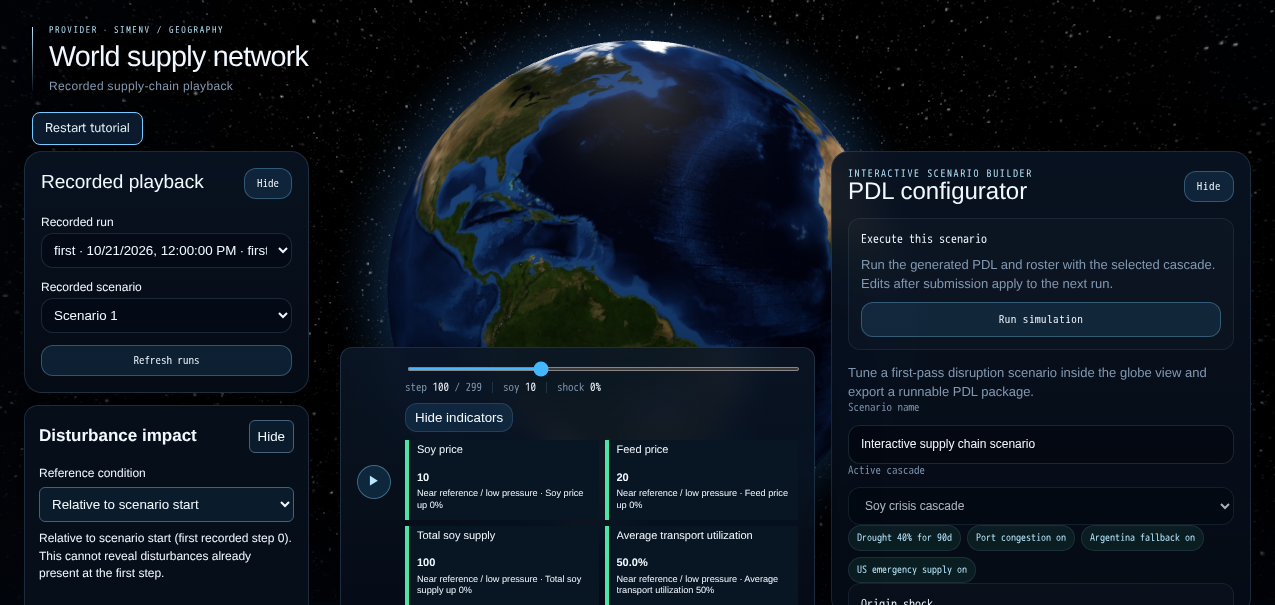
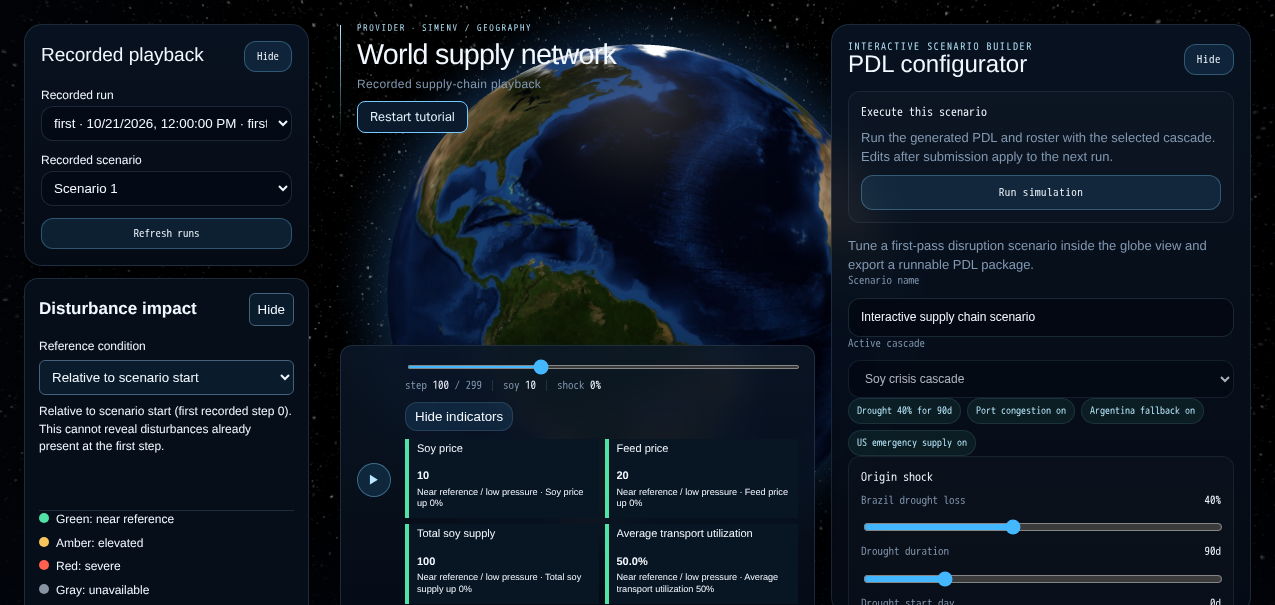
fix: align playback side panels to the top gutter

diff --git a/web/src/app.css b/web/src/app.css
@@ -25,9 +25,9 @@ body {
   overflow-anchor: none;
   display: grid;
   grid-template-columns: 300px minmax(360px, 1fr) 420px;
-  grid-template-rows: minmax(180px, 1fr) auto auto;
+  grid-template-rows: auto minmax(180px, 1fr) auto auto;
   gap: 16px;
-  padding: 155px 24px 12px;
+  padding: 24px 24px 12px;
   position: fixed;
   inset: 0;
   overflow: auto;
@@ -57,13 +57,14 @@ body {
 }
 
 .sim-frame-heading {
-  position: absolute;
-  top: 30px;
-  left: 32px;
+  position: relative;
+  grid-column: 2;
+  grid-row: 1;
   z-index: 4;
-  max-width: min(410px, calc(100vw - 64px));
+  min-width: 0;
+  overflow-wrap: anywhere;
   padding-left: 17px;
-  pointer-events: none;
+  pointer-events: auto;
 }
 
 .sim-frame-heading::before {
@@ -105,7 +106,7 @@ body {
 
 .sim-frame-meta {
   grid-column: 1 / -1;
-  grid-row: 3;
+  grid-row: 4;
   position: relative;
   min-width: 0;
   overflow-wrap: anywhere;
@@ -165,9 +166,6 @@ body {
 
 @media (max-width: 600px) {
   .sim-frame-heading {
-    top: 18px;
-    left: 18px;
-    max-width: calc(100vw - 36px);
     padding-left: 13px;
   }
 
@@ -214,7 +212,7 @@ body {
 /* Recorded playback controls remain available with an empty database. */
 .sim-playback-sidebar {
   overflow-anchor: none;
-  grid-column: 1; grid-row: 1 / 3; position: relative; z-index: 10;
+  grid-column: 1; grid-row: 1 / 4; position: relative; z-index: 10;
   width: 300px; min-height: 0; overflow-y: auto;
   display: grid; align-content: start; gap: 12px; scrollbar-gutter: stable;
 }
@@ -245,13 +243,13 @@ body {
 .sim-run-selector button:disabled { opacity: 0.55; cursor: not-allowed; }
 /* Keep playback status beside the selector, including on short desktop windows. */
 .sim-playback-message { z-index: 11; max-width: 300px; color: #eee; background: #091624e8; padding: 12px; }
-.sim-playback-notice { grid-column: 2; grid-row: 1; align-self: start; z-index: 11; max-width: 300px; pointer-events: none; }
+.sim-playback-notice { grid-column: 2; grid-row: 2; align-self: start; z-index: 11; max-width: 300px; pointer-events: none; }
 .sim-playback-notice > * { pointer-events: auto; }
 .sim-playback-notice .sim-playback-message { position: static; margin: 0; }
 
-/* Both sidebars span the globe and timeline rows, with independent scrolling. */
+/* Both sidebars span the header, globe and timeline, scrolling independently. */
 .sim-app .sim-configurator {
-  position: relative; inset: auto; grid-column: 3; grid-row: 1 / 3;
+  position: relative; inset: auto; grid-column: 3; grid-row: 1 / 4;
   width: 100%; min-height: 0; max-height: none;
 }
 
@@ -259,7 +257,7 @@ body {
   /* A scrollable control flow prevents messages from covering submission controls. */
   .sim-app { display: block; overflow-y: auto; padding: 0 0 20px; }
   .sim-app .sim-globe-stage { position: fixed; }
-  .sim-app .sim-frame-heading { position: relative; inset: auto; margin: 18px 14px 64px; }
+  .sim-app .sim-frame-heading { margin: 18px 14px; }
   .sim-app .sim-playback-sidebar,
   .sim-app .sim-playback-message,
   .sim-app .sim-playback-notice,

diff --git a/web/src/App.tsx b/web/src/App.tsx
@@ -100,9 +100,9 @@ export default function App({ source }: { source: PlaybackSource }) {
     return () => controller.abort()
   }, [source, refresh, offset])
 
-  return <Tutorial mode={source.mode} layoutReady={initialLayoutReady || (!loading && !selected)}><main className="sim-app" style={designVars as CSSProperties}>
+  return <Tutorial mode={source.mode} layoutReady={initialLayoutReady || (!loading && !selected)}>{restartNode => <main className="sim-app" style={designVars as CSSProperties}>
     <header className="sim-frame-heading"><p className="sim-frame-eyebrow">PROVIDER · SIMENV / GEOGRAPHY</p>
-      <h1>World supply network</h1><p className="sim-frame-subtitle">Recorded supply-chain playback</p></header>
+      <h1>World supply network</h1><p className="sim-frame-subtitle">Recorded supply-chain playback</p>{restartNode}</header>
     <div className="sim-playback-sidebar">
       <RunSelector runs={runs} selected={selected} scenario={scenario} loading={loading} error={error}
       hasMore={nextOffset < total} onRefresh={refreshRuns} onMore={() => setOffset(nextOffset)}
@@ -117,9 +117,9 @@ export default function App({ source }: { source: PlaybackSource }) {
     </div>
     {selected ? <SelectedPlayback key={`${selected}:${scenario}`} source={source} run={selected} scenario={scenario} runs={runs} impactSlot={impactSlot} onLayoutReady={reportLayoutReady}
       indicatorsPreference={indicatorsPreference} onIndicatorsPreference={setIndicatorsPreference} />
-      : <div className="sim-playback-message">Select a completed run for playback.</div>}
+      : <div className="sim-playback-notice"><div className="sim-playback-message">Select a completed run for playback.</div></div>}
     <ScenarioConfigurator meta={{ pdl: 's1-soja.pdl.yaml', scenario: '', ticks: 0, generatedAt: '', honestyNote: '' }} onCompleted={refreshRuns} onViewResults={viewResults} />
-  </main></Tutorial>
+  </main>}</Tutorial>
 }
 
 function SelectedPlayback({ source, run, scenario, runs, impactSlot, onLayoutReady, indicatorsPreference, onIndicatorsPreference }: { source: PlaybackSource; run: string; scenario: number; runs: RunSummary[]; impactSlot: HTMLElement | null; onLayoutReady: () => void; indicatorsPreference: boolean | null; onIndicatorsPreference: (expanded: boolean) => void }) {

diff --git a/web/src/tutorial/Tutorial.tsx b/web/src/tutorial/Tutorial.tsx
@@ -8,7 +8,7 @@ function read(key: string) { try { return localStorage.getItem(prefix + key) } c
 function write(key: string, value?: string) { try { if (value) localStorage.setItem(prefix + key, value); else localStorage.removeItem(prefix + key) } catch { /* Storage is optional. */ } }
 type Rect = { x: number; y: number; width: number; height: number }
 
-export default function Tutorial({ children, mode, layoutReady }: { children: ReactNode; mode: 'static' | 'recorded'; layoutReady: boolean }) {
+export default function Tutorial({ children, mode, layoutReady }: { children: (restartNode: ReactNode) => ReactNode; mode: 'static' | 'recorded'; layoutReady: boolean }) {
   const [active, setActive] = useState(() => read('completed') !== 'true')
   const [language, setLanguage] = useState<Language>(() => read('language') === 'de' ? 'de' : 'en')
   const [index, setIndex] = useState(0)
@@ -139,11 +139,10 @@ export default function Tutorial({ children, mode, layoutReady }: { children: Re
   function move(next: number) { setIndex(next); setEntry(value => value + 1) }
   return <TutorialContext.Provider value={{ panel: active ? step.panel : undefined, entry }}>
     <div className={active && dockHeight !== null ? 'sim-tutorial-shell sim-tutorial-shell--docked' : 'sim-tutorial-shell'} style={{ '--sim-tutorial-space': `${dockHeight ?? 0}px` } as CSSProperties}>
-    {children}
-    <button className="sim-tutorial-restart" ref={restart} type="button" onClick={() => {
+    {children(<button className="sim-tutorial-restart" ref={restart} type="button" onClick={() => {
       opener.current = document.activeElement instanceof HTMLElement ? document.activeElement : null
       write('completed'); move(0); setActive(true)
-    }}>Restart tutorial</button>
+    }}>Restart tutorial</button>)}
     {active && <>
       {target && <div className="sim-tutorial-highlight" aria-hidden="true" style={{ left: target.x - 4, top: target.y - 4, width: target.width + 8, height: target.height + 8 }} />}
       <section ref={popover} className="sim-tutorial" role="region" aria-label="Interactive tutorial" lang={language} style={position}>

diff --git a/web/src/tutorial/tutorial.css b/web/src/tutorial/tutorial.css
@@ -1,4 +1,4 @@
-.sim-tutorial-restart { position: fixed; top: 112px; left: 32px; z-index: 15; }
+.sim-tutorial-restart { display: block; margin-top: 10px; }
 .sim-tutorial, .sim-tutorial-restart { font: 13px/1.45 system-ui, sans-serif; color: #e9f5ff; background: #0b1b2d; border: 1px solid #75caff; border-radius: 8px; }
 .sim-tutorial-restart { padding: 6px 12px; cursor: pointer; }
 .sim-tutorial { position: fixed; z-index: 30; width: min(350px, calc(100vw - 16px)); max-height: calc(100dvh - 16px); overflow: auto; padding: 16px; box-shadow: 0 8px 32px #000a; }
@@ -15,7 +15,6 @@
 .sim-tutorial-shell--docked .sim-tutorial { width: calc(100vw - 16px); max-height: min(42dvh, 240px); }
 .sim-tutorial-shell--docked .sim-tutorial-actions { position: sticky; bottom: -10px; padding: 6px 0; background: #0b1b2d; }
 @media (max-width: 900px) {
-  .sim-tutorial-restart { top: 105px; left: 18px; }
   .sim-tutorial { font-size: 12px; padding: 10px; }
   .sim-tutorial h2 { font-size: 16px; margin: 6px 0; }
   .sim-tutorial p { margin: 6px 0; }

diff --git a/web/src/playback/timeline.css b/web/src/playback/timeline.css
@@ -1,6 +1,6 @@
 .sim-timeline {
   grid-column: 2;
-  grid-row: 2;
+  grid-row: 3;
   position: relative;
   z-index: 6;
   display: flex;

diff --git a/docs/playback.md b/docs/playback.md
@@ -34,8 +34,9 @@ naturally without adding an overlay across the globe. On smaller screens the
 sidebar becomes full-width page flow with no nested scrolling. Globe connections
 remain visible in all status states, including gray for unknown upstream status.
 The desktop grid keeps the timeline in the center column between both sidebars;
-the sidebars span the globe and timeline rows instead of being shortened by the
-timeline's height. Narrow or very short application space uses page flow to keep
+the sidebars start 24px from the application top and span the header, globe and
+timeline rows. The title and **Restart tutorial** occupy a normal-flow center
+header. Narrow or very short application space uses page flow to keep
 all controls reachable; see the exact thresholds below.
 
 Interface examples (using the bundled static demo):
@@ -58,7 +59,8 @@ The desktop width budget is **1160 CSS pixels**: 300px left sidebar + 360px
 minimum center column + 420px configurator + two 16px gaps + 48px outer padding.
 The center grows with available width. Below 1160px of available application
 width, or at available height **≤540px**, controls use full-width scrollable page
-flow. A docked tutorial reduces the available application area, so these layout
+flow, with the header and restart button before the controls. A docked tutorial
+reduces the available application area, so these layout
 thresholds can apply even when the browser viewport itself is larger. On desktop,
 both sidebars scroll independently; oversized center content makes the application
 scroll rather than covering adjacent controls or being permanently clipped.
@@ -88,14 +90,17 @@ different layout.
 | State | Capture |
 | --- | --- |
 | Before: clean issue #79 HEAD `6add5ef`, timeline overlaps configurator | [Before medium](responsive-before-medium.png) |
-| After: default collapsed cards, larger unobstructed globe area | [After medium](responsive-after-medium.png) |
-| After: Show indicators, all four cards (application scrolled as needed) | [Expanded medium](responsive-expanded-medium.png) |
+| After: top-aligned side panels, center header, default collapsed cards | [After medium](responsive-after-medium.png) |
+| After: Show indicators, four-card grid at the viewport's lower edge | [Expanded medium](responsive-expanded-medium.png) |
 | Last tutorial step: temporary reveal, English | [English](responsive-tutorial-en-medium.png) |
 | Last tutorial step: temporary reveal, Deutsch | [Deutsch](responsive-tutorial-de-medium.png) |
 
 The before capture is served from a clean detached worktree at **`6add5ef`**, not
 the older issue #75 server used for the historical tutorial screenshots below.
-The after captures use the current responsive followup working tree. Both use
+The four after captures use the **uncommitted top-alignment working tree** on
+`79-interactive-tutorial`, served on port 5179: side panels at 24px from the
+application top and a normal-flow center title/restart header. They include changes
+beyond HEAD `94c2ff6`; that commit alone does not reproduce these images. Both use
 the same **controlled recorded-response fixtures** from `playback-fixtures.mjs`:
 run `first`, scenario 1, paused step 100, component `brazil_farms`, scenario-start
 reference, expanded configurator. These are interface fixtures, not empirical
@@ -120,8 +125,11 @@ SIMENV_TEST_PLAYBACK_ORIGIN=http://127.0.0.1:8079 \
 
 The capture script reuses playback fixtures and their browser-setup completion
 seed, checks the expected baseline/default toggle state, and logs panel geometry.
-Visual review confirms baseline overlap, separated after columns and more visible
-globe at the default, plus the expanded cards and readable EN/DE final-step guidance.
+Visual review confirms baseline overlap, top-aligned after side panels, the center
+title/restart header and separated columns, plus the expanded cards and readable
+EN/DE final-step guidance. At this short viewport the expanded grid reaches the
+lower image edge; scroll for its remaining content. Tutorial navigation can scroll
+the sidebar contents while the panel containers still start at 24px.
 The older tutorial/status screenshots remain historical evidence of their stated
 source revisions; they have not been regenerated with the responsive followup.
 

diff --git a/web/README.md b/web/README.md
@@ -15,11 +15,14 @@ the page's full-width scrollable layout without nested panel scrolling.
 The globe stays still until you drag it; scroll to zoom. Automatic rotation is disabled.
 The desktop grid coordinates a 300px left column, at least 360px of center space
 for the timeline, and a 420px configurator, plus two 16px gaps and 48px outer
-padding: a 1160 CSS-pixel minimum width budget. Both sidebars span the globe and
-timeline rows with their own scrolling; the timeline stays between them. Below
+padding: a 1160 CSS-pixel minimum width budget. Both sidebars start 24px from the
+application top and span the header, globe and timeline rows with their own
+scrolling. The title and **Restart tutorial** stay in a normal-flow center header;
+the timeline stays between the sidebars. Below
 1160px of available application width or at 540px available height or less, the
 controls switch to scrollable page flow. Tutorial docking can reduce that
 available application space. Tall expanded content scrolls rather than clipping.
+In page flow, the header and restart button precede the controls.
 
 Network indicator cards default to collapsed at viewport width **≤1500px or
 height ≤800px**, leaving more globe visible; wider **and** taller viewports default

diff --git a/README.md b/README.md
@@ -35,7 +35,9 @@ single scenario submitted. Scenario-start comparison remains explicit. See the
 
 Playback uses coordinated left controls, a center timeline, and a right
 configurator when at least 1160 CSS pixels of application width are available;
-narrow or very short layouts use scrollable page flow. Network indicator cards
+both side panels start 24px from the application top, beside a normal-flow center
+header containing the title and **Restart tutorial**. Narrow or very short layouts
+use scrollable page flow, with that header before the controls. Network indicator cards
 start collapsed when the viewport is at most 1500px wide **or** 800px high.
 **Show indicators / Hide indicators** frees globe space without changing playback.
 Until you choose, the default follows resizing; an explicit choice lasts for the
